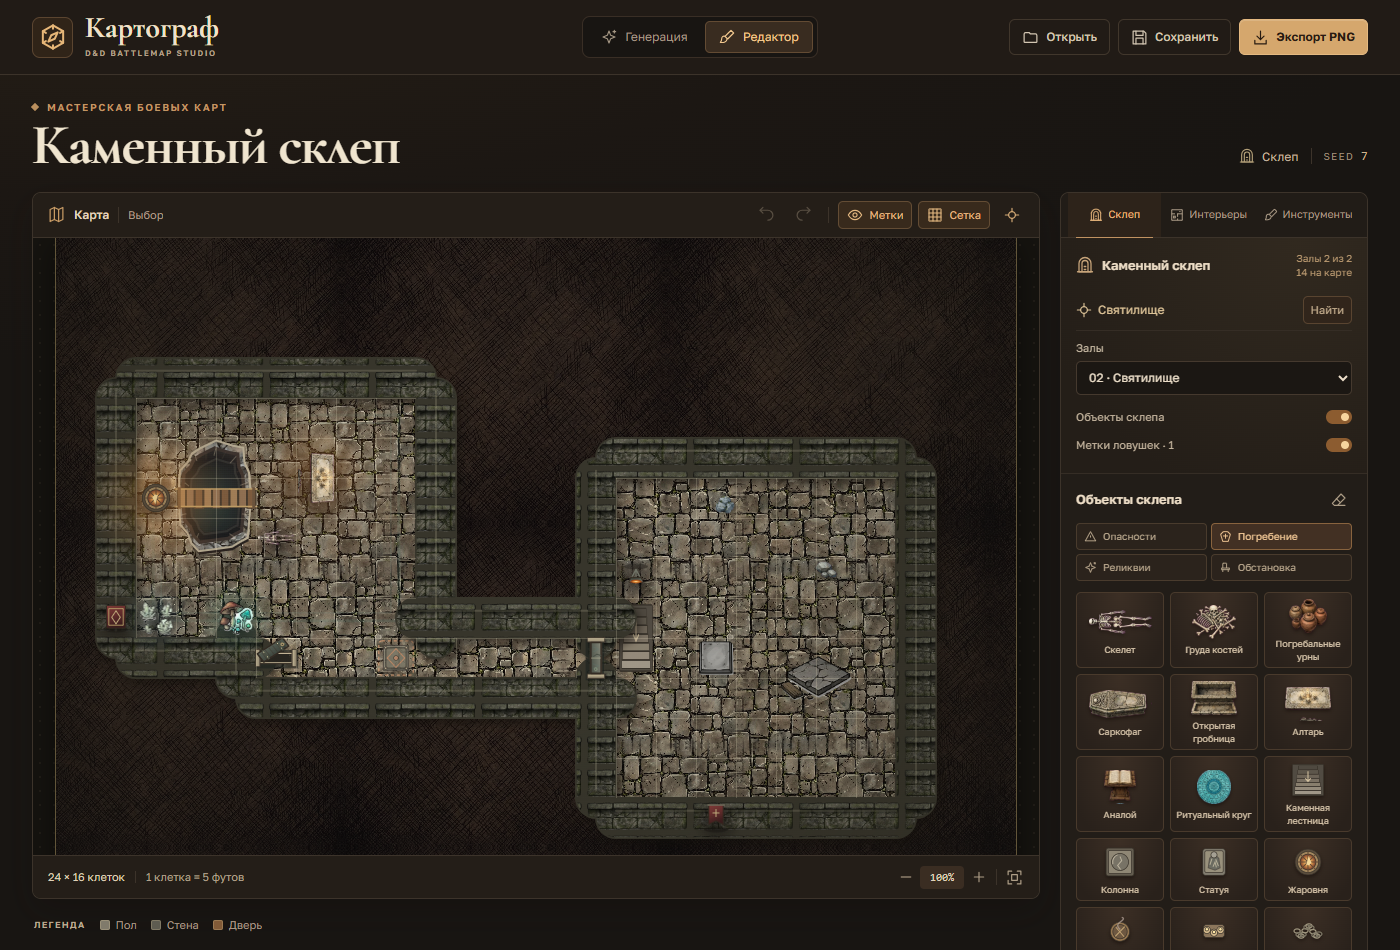
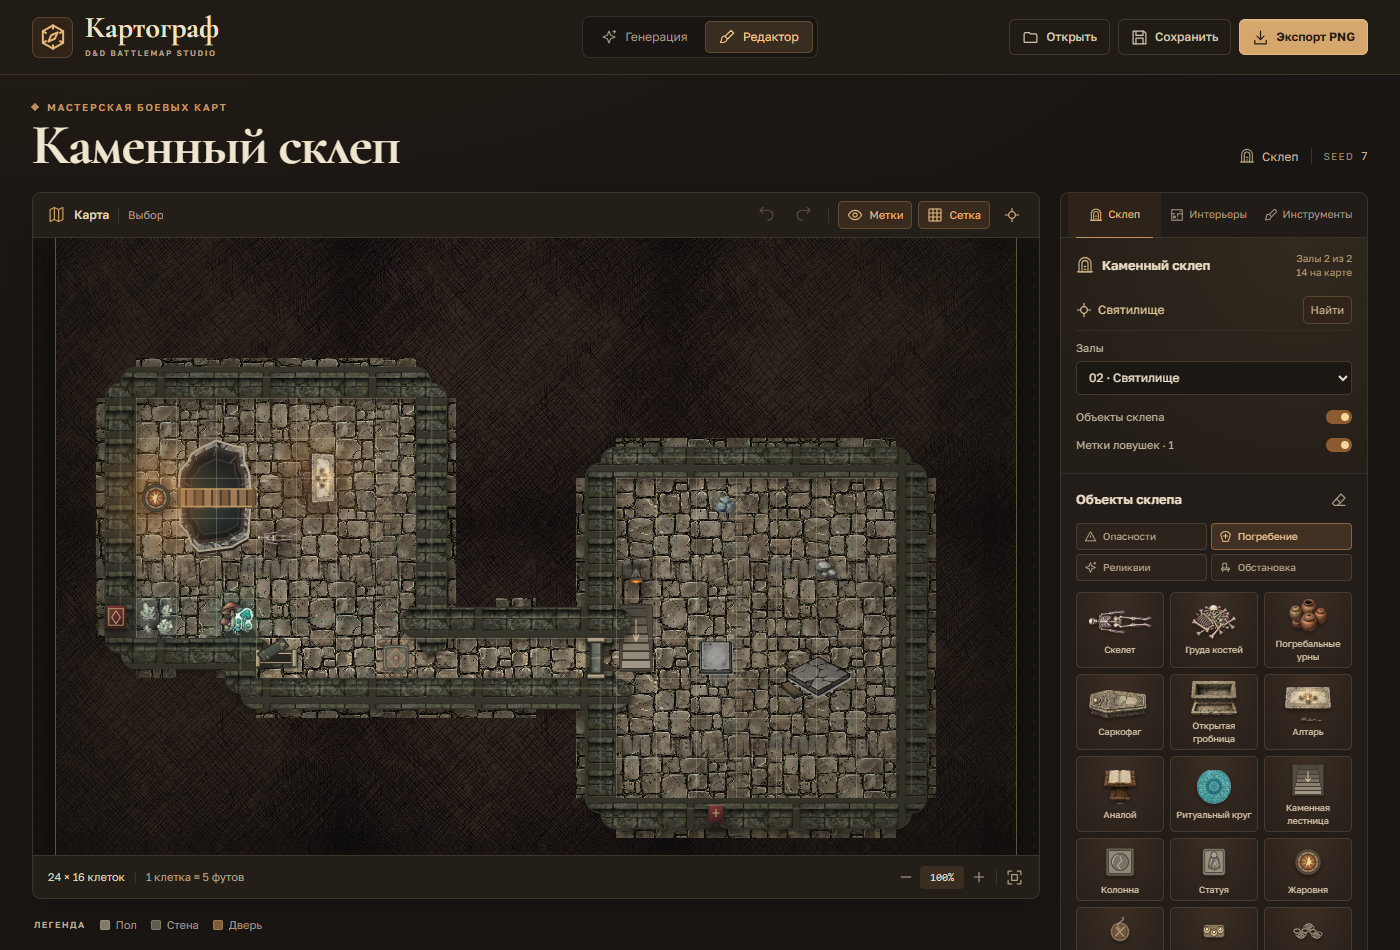
fix: сделать стены тоньше

diff --git a/src/lib/wallPaint.ts b/src/lib/wallPaint.ts
@@ -11,11 +11,12 @@ const wallEdge = (map: MapData, x: number, y: number) => {
 };
 
 /**
- * РЎС‚РµРЅРЅРѕР№ СЂРµРЅРґРµСЂ В«РїРѕР»РѕСЃР°РјРё РїРѕ РєРѕРЅС‚СѓСЂСѓВ».
+ * Стены «лентой по контуру».
  *
- * Р’РјРµСЃС‚Рѕ СЂР°СЃРєР»Р°РґРєРё РєРІР°РґСЂР°С‚РЅС‹С… СЃРїСЂР°Р№С‚РѕРІ РїРѕ РєР»РµС‚РєР°Рј РѕР±С…РѕРґРёРј РіСЂР°РЅРёС†Сѓ РїРѕР»Р° Рё
- * СЂРёСЃСѓРµРј С‚РѕР»СЃС‚СѓСЋ РєР°РјРµРЅРЅСѓСЋ Р»РµРЅС‚Сѓ СЃ РєСЂСѓРіР»С‹РјРё СЃС‚С‹РєР°РјРё. РЈРіР»С‹ РєРѕРјРЅР°С‚ РїРѕР»СѓС‡Р°СЋС‚СЃСЏ
- * СЃРєСЂСѓРіР»С‘РЅРЅС‹РјРё, Р° РЅРµ РєРІР°РґСЂР°С‚РЅС‹РјРё; С‰РµР»РµР№ РјРµР¶РґСѓ РєР»РµС‚РєР°РјРё РЅРµС‚ РїРѕ РїРѕСЃС‚СЂРѕРµРЅРёСЋ.
+ * Вместо раскладки квадратных спрайтов по клеткам обходим границу пола и
+ * рисуем каменную ленту с круглыми стыками. Углы комнат получаются
+ * скруглёнными, а не квадратными; щелей между клетками нет по построению.
+ * Толщина ленты меньше клетки — внутренняя кромка прижата к полу.
  */
 export function drawWalls(
   ctx: CanvasRenderingContext2D,
@@ -28,7 +29,7 @@ export function drawWalls(
   const wall = art['wall-straight'];
   if (!wall) return false;
 
-  const offset = cs * 0.5;
+  const offset = cs * 0.39;
   const segments: [number, number, number, number][] = [];
   for (let y = 0; y < map.height; y++) for (let x = 0; x < map.width; x++) {
     if (!floorLike(map, x, y)) continue;
@@ -41,7 +42,7 @@ export function drawWalls(
   }
   if (!segments.length) return true;
 
-  const band = cs * 1.05;
+  const band = cs * 0.78;
   const path = () => {
     ctx.beginPath();
     for (const [x0, y0, x1, y1] of segments) {
@@ -54,12 +55,12 @@ export function drawWalls(
   ctx.lineCap = 'round';
   ctx.lineJoin = 'round';
 
-  // РўС‘РјРЅРѕРµ РѕСЃРЅРѕРІР°РЅРёРµ: РѕРЅРѕ Р¶Рµ РєРѕРЅС‚СѓСЂ Рё В«СЂР°СЃС‚РІРѕСЂВ» РјРµР¶РґСѓ РєР°РјРЅСЏРјРё.
+  // Тёмное основание: контур и «раствор» между камнями.
   if (shading) {
     ctx.shadowColor = 'rgba(16,13,9,.55)';
-    ctx.shadowBlur = cs * 0.22;
-    ctx.shadowOffsetX = cs * 0.08;
-    ctx.shadowOffsetY = cs * 0.14;
+    ctx.shadowBlur = cs * 0.18;
+    ctx.shadowOffsetX = cs * 0.06;
+    ctx.shadowOffsetY = cs * 0.11;
   }
   ctx.strokeStyle = '#37352b';
   ctx.lineWidth = band;
@@ -76,14 +77,13 @@ export function drawWalls(
     ctx.stroke();
   }
 
-  // РЎРІРµС‚Р»Р°СЏ РєСЂРѕРјРєР° СЃРІРµСЂС…Сѓ: С‡РёС‚Р°РµС‚СЃСЏ РєР°Рє РІРµСЂС… РєР»Р°РґРєРё.
+  // Светлая кромка сверху: читается как верх кладки.
   ctx.strokeStyle = 'rgba(184,176,146,.22)';
-  ctx.lineWidth = Math.max(1, cs * 0.05);
-  ctx.translate(0, -cs * 0.18);
+  ctx.lineWidth = Math.max(1, cs * 0.04);
+  ctx.translate(0, -cs * 0.13);
   path();
   ctx.stroke();
-  ctx.translate(0, cs * 0.18);
+  ctx.translate(0, cs * 0.13);
   ctx.restore();
   return true;
 }
-
